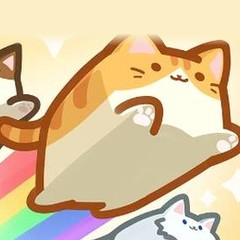
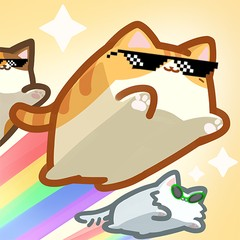
about: 제목·연락처·Work style 을 한 덩어리로 묶고 가로줄로 구분, Work style 오른쪽 정렬 · 블럭냥! 공식 아이콘 썸네일
- about.banner: 덩어리 전체 배경 이미지 한 장 (선택)
- Work style 제목 아래 선 삭제·간격 축소, 데스크톱 모자이크 아래 4줄 숨김(글자 겹침 방지)
- 대표 프로젝트는 기본 배경으로 구분
- 블럭냥! 썸네일: 스토어 공식 아이콘(귀까지 온전)

Claude-Session: https://claude.ai/code/session_01KNxXTwysthCR3yripsWerF

diff --git a/index.html b/index.html
@@ -319,7 +319,7 @@ a.card:active{transform:scale(.995);}
 .ws{display:grid;border-top:1px solid var(--ash);}
 @media (min-width:820px){.ws{grid-template-columns:repeat(2,minmax(0,1fr));}}
 .ws__col{display:grid;gap:var(--s12);padding:var(--s16) 0;}
-@media (min-width:820px){.ws__col + .ws__col{padding-left:var(--s32);border-left:1px solid var(--frost);}}
+@media (min-width:820px){.ws__col + .ws__col{padding-left:var(--s32);border-left:1px solid var(--ash);}}
 @media (max-width:819px){.ws__col + .ws__col{border-top:1px solid var(--frost);}}
 .ws__row{display:flex;align-items:center;gap:var(--s12);}
 .ws__thumb{width:52px;height:52px;flex:0 0 auto;border-radius:10px;object-fit:cover;background:var(--frost);display:block;}
@@ -499,16 +499,18 @@ a.card:active{transform:scale(.995);}
 .sec-head--rule .sec-head__ico{width:36px;height:36px;}
 @media (max-width:559px){.sec-head--rule .sec-head__ico{width:30px;height:30px;}}
 .sec-head--tight{margin-bottom:var(--s16);}
-.band--ws{padding-top:var(--s48);}
-/* 데스크톱: 히어로 아래쪽 48px 를 Work style 띠가 덮어 올라온다.
-   히어로 안의 글자·모자이크 위치와 Resume 상단 높이는 그대로 두고, 제목 칸 아래 여백과 사이 간격만 줄인다 */
-@media (min-width:900px){
-  .band--ws{position:relative;z-index:1;background:var(--canvas);margin-top:-48px;padding-top:calc(var(--s16) + 3px);}
-}
-/* 데스크톱: 제목·연락처를 10px 위로 (히어로 높이·모자이크는 그대로. 모바일은 위 여백이 없어 제외) */
-@media (min-width:900px){.topblock.hero .hero__inner{transform:translateY(-10px);}}
-/* Work style ↔ 대표 프로젝트 간격 0.75배 (64+64 → 48+48) */
-.band--ws{padding-bottom:var(--s48);}
+/* About 상단 — 제목 · 연락처 · Work style 을 한 덩어리로 오밀조밀하게.
+   덩어리 전체에 배경 이미지 한 장(about.banner)을 깔 수 있다 */
+.topblock.hero{display:block;min-height:0;padding:var(--s24) 0 var(--s32);}
+@media (min-width:900px){.topblock.hero{min-height:0;padding:76px 0 var(--s32);}}
+/* 제목 ↔ Work style 사이 가로줄, Work style 은 오른쪽 끝으로 */
+.hero__rule{margin-top:var(--s32);border-top:1px solid var(--ash);}
+.hero__ws{max-width:560px;margin:var(--s16) 0 0 auto;text-align:left;}
+.hero__ws .sec-head--tight{margin-bottom:0;}
+.hero__ws .ws{border-top:0;}                 /* 제목 아래 선 없이 바로 본문 */
+.hero__ws .ws__col{padding-top:var(--s4);}
+/* 데스크톱: 모자이크가 가로줄 아래 Work style 글자와 겹치지 않도록 아래쪽 4줄은 숨김 (이전에도 Work style 띠에 가려지던 부분) */
+@media (min-width:900px){.topblock.hero .mrow:nth-child(n+11){visibility:hidden;}}
 .band--feat{padding-top:var(--s48);}
 .tgroup + .tgroup{margin-top:var(--s32);}
 .tyear{font-size:var(--text-subheading);font-weight:600;letter-spacing:-.02em;color:var(--violet);
@@ -1003,6 +1005,7 @@ var CONTENT = {
        제목에 마우스를 올리면 [[…]] 가 6pt 커지며 #f31d5d 로 바뀐다 */
     logline: '**의도를 디자인**하는 [[기획자]]\n__신작 발사대__ [[박지수]] 입니다.',   // **보라** · __주황__ · [[강조·Resume 링크]]
     intro: '',            // (선택) 히어로 보조 문단. 비우면 표시 안 함
+    banner: '',           // (선택) 제목 ~ Work style 덩어리 전체에 깔리는 배경 이미지 한 장
 
     /* 대표 프로젝트(벤토 4칸)에 띄울 게시물 id — 메인·기획서·아트 어디서든 고를 수 있음.
        비우면 메인 프로젝트 앞 4개를 그대로 사용 */
@@ -1820,7 +1823,9 @@ var CONTENT = {
     var h = [];
 
     /* 히어로 — 버튼 없음 */
-    h.push('<div class="topblock hero">' + mosaicAnchor(!mosaicPlayed) + '<div class="wrap hero__inner">');
+    h.push('<div class="topblock hero">' +
+      (has(a.banner) ? '<div class="topblock__bg" style="background-image:url(' + esc(a.banner) + ')"></div>' : '') +
+      mosaicAnchor(!mosaicPlayed) + '<div class="wrap hero__inner">');
     h.push('<h1 class="hero__logline">' +
       (has(a.logline)
         ? a.logline.split('\n').map(function (ln) {
@@ -1835,10 +1840,10 @@ var CONTENT = {
     h.push('<div class="hero__contact">' +
       '<span>' + pico('email') + txt(pf0.email, '이메일') + '</span>' +
       '<span>' + pico('phone') + txt(pf0.phone, '전화번호') + '</span></div>');
-    h.push('</div></div>');
 
-    /* Work style — 도입 문단과 같은 글 안에 있는 것처럼 바짝 붙인다 */
-    h.push('<div class="band band--ws"><div class="wrap">');
+    /* Work style — 제목·연락처 아래 가로줄로 나누고, 같은 덩어리 안에서 오른쪽 끝에 좁게 */
+    h.push('<div class="hero__rule" aria-hidden="true"></div>');
+    h.push('<div class="hero__ws">');
     h.push(headBlock('gamepad', '', 'I Walk & My Work style', 'workStyle', 'sec-head--tight'));
     if (hasList(a.workStyle)) {
       var half = Math.ceil(a.workStyle.length / 2);
@@ -1856,10 +1861,11 @@ var CONTENT = {
     } else {
       h.push(phBlock('Work style 항목', 'CONTENT.about.workStyle'));
     }
-    h.push('</div></div>');
+    h.push('</div>');          // .hero__ws
+    h.push('</div></div>');    // .hero__inner · .topblock
 
-    /* 대표 프로젝트 — 큰1·중1·작2 벤토 */
-    h.push('<div class="band band--cloud band--feat"><div class="wrap">' +
+    /* 대표 프로젝트 — 큰1·중1·작2 벤토 (위 덩어리와 구분되도록 기본 배경) */
+    h.push('<div class="band band--feat"><div class="wrap">' +
       headBlock('project', 'Featured', '대표 프로젝트', 'featured', 'sec-head--tight') +
       bento(featuredList()) + '</div></div>');
 

diff --git a/README.md b/README.md
@@ -41,6 +41,7 @@ var CONTENT = { ... };
 |---|---|---|
 | 대단원 설명문 | `descs` | 비워 두면 아무것도 표시하지 않습니다 (채운 것만 제목 아래에 표시) |
 | About · 헤드라인 | `about.logline` / `about.intro` | 도입 문단은 로그라인의 2/3 크기 |
+| About · 상단 배경 | `about.banner` | 제목 ~ I Walk & My Work style 덩어리 전체에 깔리는 배경 이미지 한 장 (비우면 단색) |
 | About · Work style | `about.workStyle` | 3열, 큰 픽토그램 + 제목 / 하단 설명. `icon` 은 게임 아이콘(`gamepad` · `pawn` · `monitor` · `dice` · `trophy` · `heart`) 또는 `blocks` · `target` · `bars` · `bolt` · `flag` · `chat` · `box` |
 | About · 대표 프로젝트 | (자동) | 메인 · 기획서 · 아트 작업물 게시물 카드가 오른쪽 → 왼쪽으로 흐름. 엷은 회색 구역, 좌우 페이드 |
 | 푸터 | `meta.footerName` / `meta.updated` | 오른쪽에 이름과 최종 수정 일자. **파일을 고칠 때마다 `updated` 를 함께 바꿔 주세요** |
